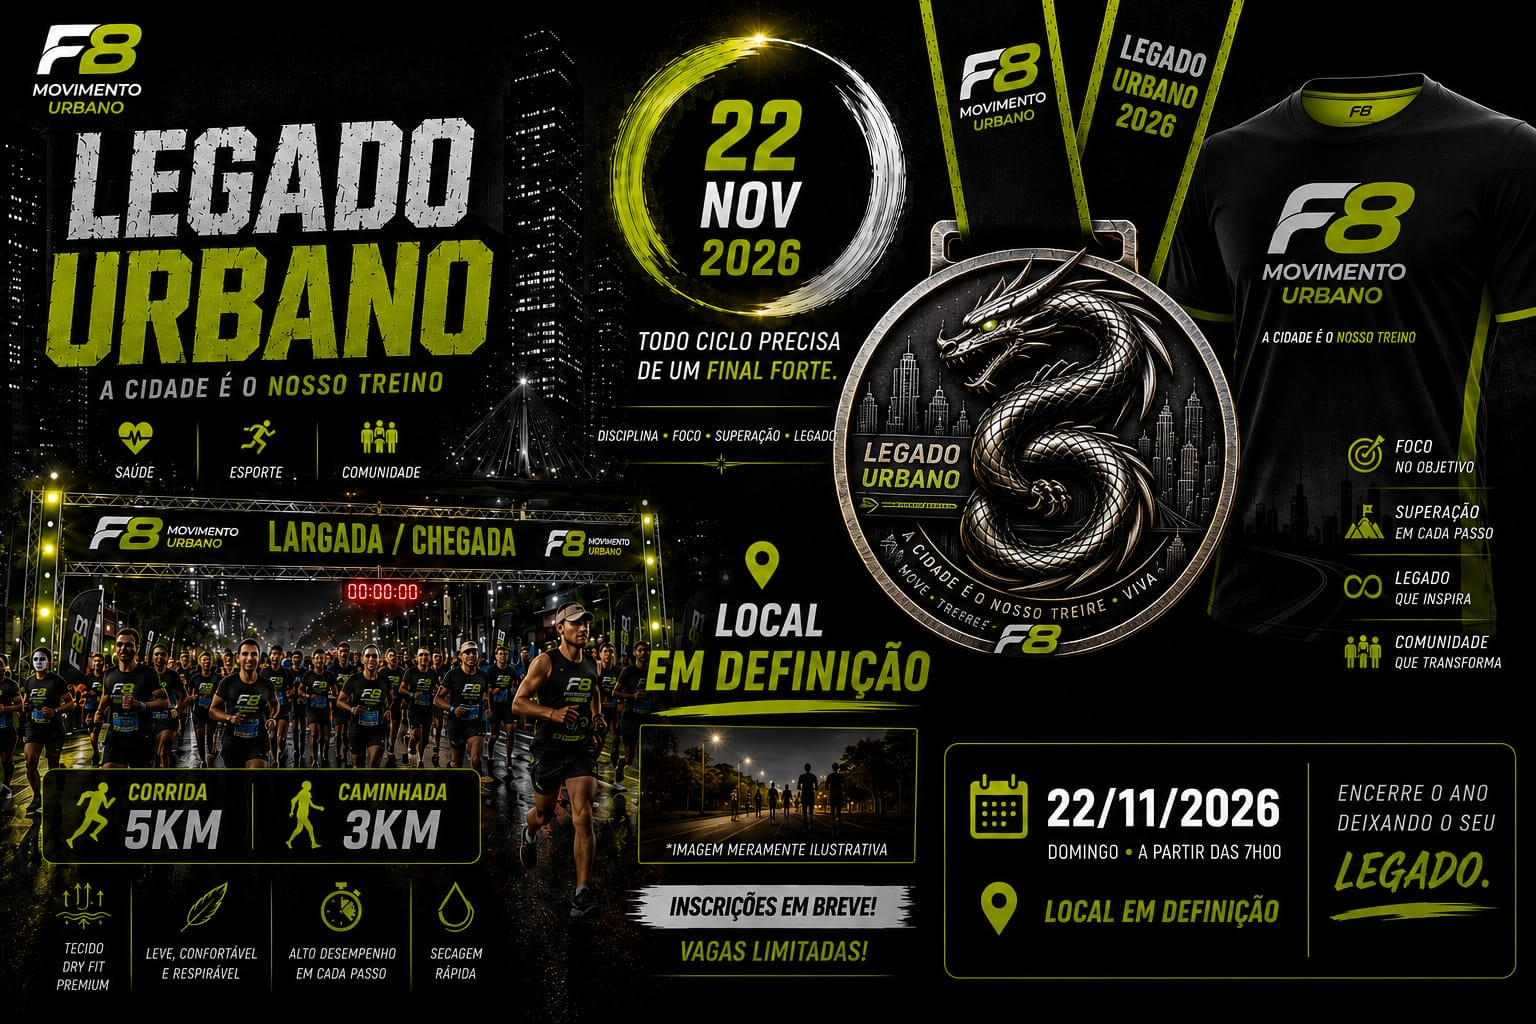
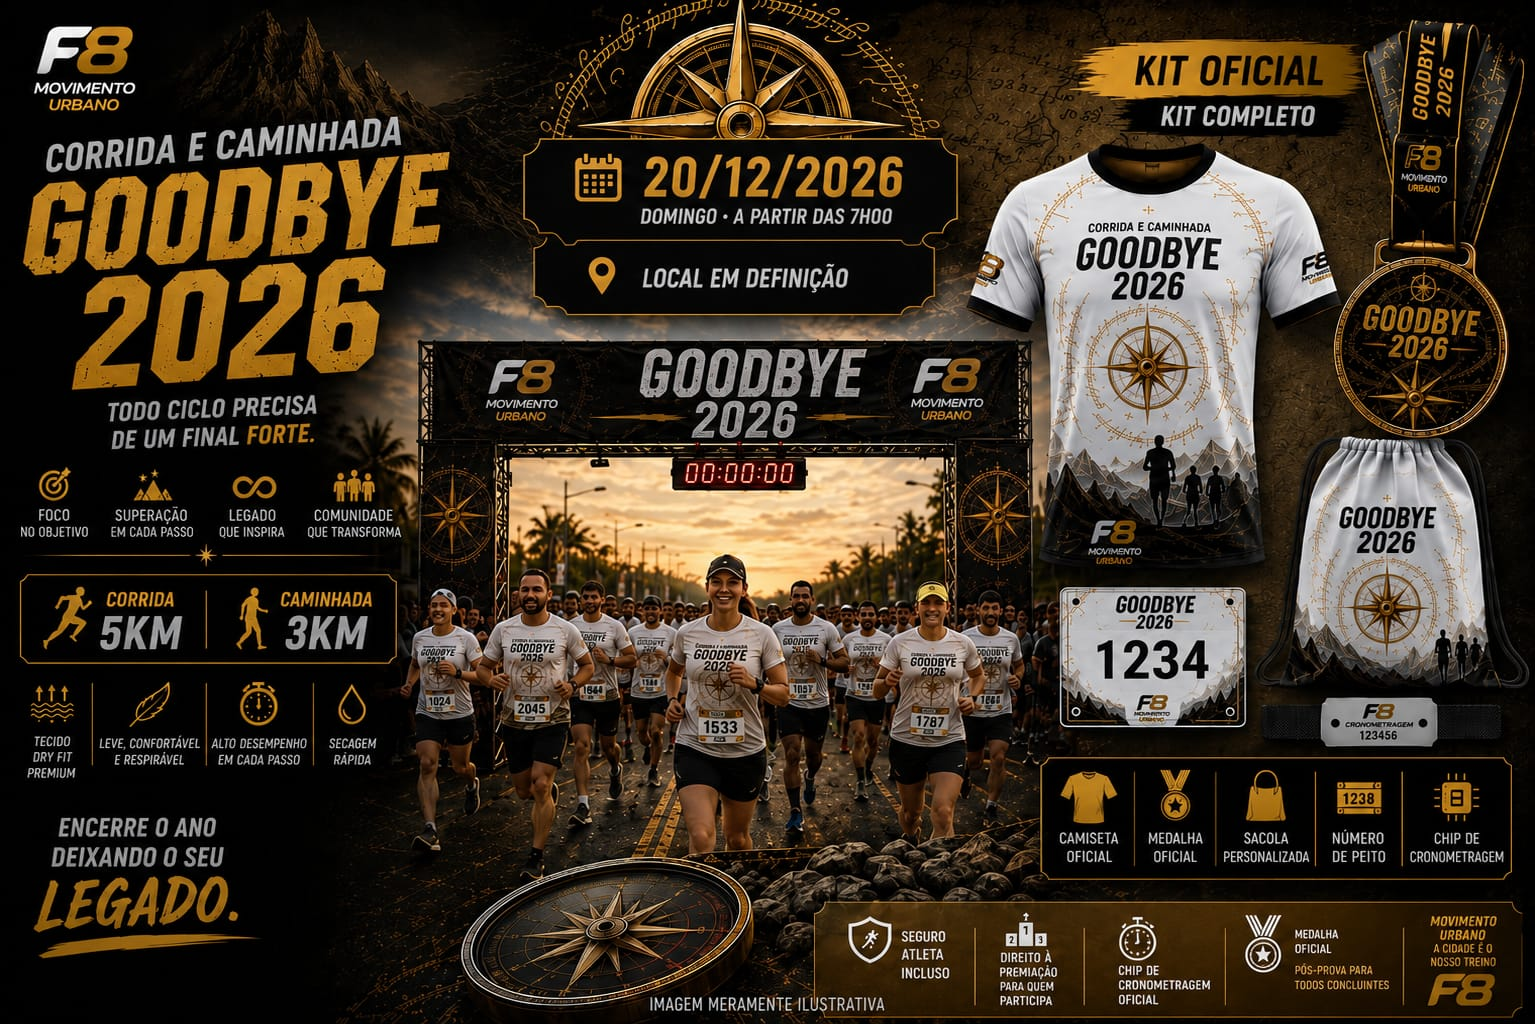
Move eventos de novembro e dezembro para as primeiras posições do carrossel

diff --git a/index.html b/index.html
@@ -280,70 +280,6 @@
                     <!-- Card 1 -->
                     <div class="event-card">
                         <div class="event-card-image">
-                            <img src="assets/images/event-1.png" alt="Meia Maratona SP" loading="lazy">
-                            <span class="event-card-date">25 AGO</span>
-                        </div>
-                        <div class="event-card-body">
-                            <h3>Meia Maratona São Paulo</h3>
-                            <div class="event-card-location">
-                                <svg width="14" height="14" viewBox="0 0 24 24" fill="none" stroke="currentColor" stroke-width="2"><path d="M21 10c0 7-9 13-9 13s-9-6-9-13a9 9 0 0 1 18 0z"/><circle cx="12" cy="10" r="3"/></svg>
-                                São Paulo, SP
-                            </div>
-                            <a href="https://wa.me/5511983685985?text=Ol%C3%A1!%20Gostaria%20de%20saber%20mais%20sobre%20os%20eventos%20da%20F8." target="_blank" rel="noopener noreferrer" class="btn-primary btn-sm">Inscreva-se</a>
-                        </div>
-                    </div>
-
-                    <!-- Card 2 -->
-                    <div class="event-card">
-                        <div class="event-card-image">
-                            <img src="assets/images/event-2.png" alt="10K Night Run" loading="lazy">
-                            <span class="event-card-date">15 SET</span>
-                        </div>
-                        <div class="event-card-body">
-                            <h3>10K Night Run SP</h3>
-                            <div class="event-card-location">
-                                <svg width="14" height="14" viewBox="0 0 24 24" fill="none" stroke="currentColor" stroke-width="2"><path d="M21 10c0 7-9 13-9 13s-9-6-9-13a9 9 0 0 1 18 0z"/><circle cx="12" cy="10" r="3"/></svg>
-                                São Paulo, SP
-                            </div>
-                            <a href="#" class="btn-primary btn-sm">Inscreva-se</a>
-                        </div>
-                    </div>
-
-                    <!-- Card 3 -->
-                    <div class="event-card">
-                        <div class="event-card-image">
-                            <img src="assets/images/event-3.png" alt="Corrida Neon Run" loading="lazy">
-                            <span class="event-card-date">05 OUT</span>
-                        </div>
-                        <div class="event-card-body">
-                            <h3>Neon Run São Miguel</h3>
-                            <div class="event-card-location">
-                                <svg width="14" height="14" viewBox="0 0 24 24" fill="none" stroke="currentColor" stroke-width="2"><path d="M21 10c0 7-9 13-9 13s-9-6-9-13a9 9 0 0 1 18 0z"/><circle cx="12" cy="10" r="3"/></svg>
-                                São Miguel Paulista, SP
-                            </div>
-                            <a href="https://wa.me/5511983685985?text=Ol%C3%A1!%20Gostaria%20de%20saber%20mais%20sobre%20os%20eventos%20da%20F8." target="_blank" rel="noopener noreferrer" class="btn-primary btn-sm">Saber Mais</a>
-                        </div>
-                    </div>
-
-                    <!-- Card 4 -->
-                    <div class="event-card">
-                        <div class="event-card-image">
-                            <img src="assets/images/event-4.png" alt="Trail Urbano" loading="lazy">
-                            <span class="event-card-date">20 OUT</span>
-                        </div>
-                        <div class="event-card-body">
-                            <h3>Trail Urbano Zona Leste</h3>
-                            <div class="event-card-location">
-                                <svg width="14" height="14" viewBox="0 0 24 24" fill="none" stroke="currentColor" stroke-width="2"><path d="M21 10c0 7-9 13-9 13s-9-6-9-13a9 9 0 0 1 18 0z"/><circle cx="12" cy="10" r="3"/></svg>
-                                São Paulo, SP
-                            </div>
-                            <a href="#" class="btn-primary btn-sm">Inscreva-se</a>
-                        </div>
-                    </div>
-
-                    <!-- Card 5 (extra for carousel scroll) -->
-                    <div class="event-card">
-                        <div class="event-card-image">
                             <img src="assets/images/legado-novembro.jpeg" alt="Legado Urbano" loading="lazy">
                             <span class="event-card-date">22 NOV</span>
                         </div>
@@ -353,11 +289,15 @@
                                 <svg width="14" height="14" viewBox="0 0 24 24" fill="none" stroke="currentColor" stroke-width="2"><path d="M21 10c0 7-9 13-9 13s-9-6-9-13a9 9 0 0 1 18 0z"/><circle cx="12" cy="10" r="3"/></svg>
                                 São Paulo, SP
                             </div>
-                            <a href="https://wa.me/5511983685985?text=Ol%C3%A1!%20Gostaria%20de%20saber%20mais%20sobre%20o%20evento%20Legado%20Urbano." target="_blank" rel="noopener noreferrer" class="btn-primary btn-sm">Saber Mais</a>
+                            <div class="event-card-location" style="margin-top: 8px; color: var(--accent-orange);">
+                                <svg width="14" height="14" viewBox="0 0 24 24" fill="none" stroke="currentColor" stroke-width="2"><circle cx="12" cy="12" r="10"/><polyline points="12 6 12 12 16 14"/></svg>
+                                22/11/2026 - A partir das 07:00
+                            </div>
+                            <a href="https://wa.me/5511983685985?text=Ol%C3%A1!%20Gostaria%20de%20saber%20mais%20sobre%20o%20evento%20Legado%20Urbano." target="_blank" rel="noopener noreferrer" class="btn-primary btn-sm" style="margin-top: 15px;">Saber Mais</a>
                         </div>
                     </div>
 
-                    <!-- Card 6 -->
+                    <!-- Card 2 -->
                     <div class="event-card">
                         <div class="event-card-image">
                             <img src="assets/images/goodbye-dezembro.jpeg" alt="Corrida e Caminhada Goodbye 2026" loading="lazy">
@@ -369,7 +309,75 @@
                                 <svg width="14" height="14" viewBox="0 0 24 24" fill="none" stroke="currentColor" stroke-width="2"><path d="M21 10c0 7-9 13-9 13s-9-6-9-13a9 9 0 0 1 18 0z"/><circle cx="12" cy="10" r="3"/></svg>
                                 São Paulo, SP
                             </div>
-                            <a href="https://wa.me/5511983685985?text=Ol%C3%A1!%20Gostaria%20de%20saber%20mais%20sobre%20a%20Corrida%20Goodbye%202026." target="_blank" rel="noopener noreferrer" class="btn-primary btn-sm">Saber Mais</a>
+                            <div class="event-card-location" style="margin-top: 8px; color: var(--accent-orange);">
+                                <svg width="14" height="14" viewBox="0 0 24 24" fill="none" stroke="currentColor" stroke-width="2"><circle cx="12" cy="12" r="10"/><polyline points="12 6 12 12 16 14"/></svg>
+                                20/12/2026 - A partir das 07:00
+                            </div>
+                            <a href="https://wa.me/5511983685985?text=Ol%C3%A1!%20Gostaria%20de%20saber%20mais%20sobre%20a%20Corrida%20Goodbye%202026." target="_blank" rel="noopener noreferrer" class="btn-primary btn-sm" style="margin-top: 15px;">Saber Mais</a>
+                        </div>
+                    </div>
+
+                    <!-- Card 3 -->
+                    <div class="event-card">
+                        <div class="event-card-image">
+                            <img src="assets/images/event-1.png" alt="Meia Maratona SP" loading="lazy">
+                            <span class="event-card-date">25 AGO</span>
+                        </div>
+                        <div class="event-card-body">
+                            <h3>Meia Maratona São Paulo</h3>
+                            <div class="event-card-location">
+                                <svg width="14" height="14" viewBox="0 0 24 24" fill="none" stroke="currentColor" stroke-width="2"><path d="M21 10c0 7-9 13-9 13s-9-6-9-13a9 9 0 0 1 18 0z"/><circle cx="12" cy="10" r="3"/></svg>
+                                São Paulo, SP
+                            </div>
+                            <a href="https://wa.me/5511983685985?text=Ol%C3%A1!%20Gostaria%20de%20saber%20mais%20sobre%20os%20eventos%20da%20F8." target="_blank" rel="noopener noreferrer" class="btn-primary btn-sm" style="margin-top: 15px;">Inscreva-se</a>
+                        </div>
+                    </div>
+
+                    <!-- Card 4 -->
+                    <div class="event-card">
+                        <div class="event-card-image">
+                            <img src="assets/images/event-2.png" alt="10K Night Run" loading="lazy">
+                            <span class="event-card-date">15 SET</span>
+                        </div>
+                        <div class="event-card-body">
+                            <h3>10K Night Run SP</h3>
+                            <div class="event-card-location">
+                                <svg width="14" height="14" viewBox="0 0 24 24" fill="none" stroke="currentColor" stroke-width="2"><path d="M21 10c0 7-9 13-9 13s-9-6-9-13a9 9 0 0 1 18 0z"/><circle cx="12" cy="10" r="3"/></svg>
+                                São Paulo, SP
+                            </div>
+                            <a href="#" class="btn-primary btn-sm" style="margin-top: 15px;">Inscreva-se</a>
+                        </div>
+                    </div>
+
+                    <!-- Card 5 -->
+                    <div class="event-card">
+                        <div class="event-card-image">
+                            <img src="assets/images/event-3.png" alt="Corrida Neon Run" loading="lazy">
+                            <span class="event-card-date">05 OUT</span>
+                        </div>
+                        <div class="event-card-body">
+                            <h3>Neon Run São Miguel</h3>
+                            <div class="event-card-location">
+                                <svg width="14" height="14" viewBox="0 0 24 24" fill="none" stroke="currentColor" stroke-width="2"><path d="M21 10c0 7-9 13-9 13s-9-6-9-13a9 9 0 0 1 18 0z"/><circle cx="12" cy="10" r="3"/></svg>
+                                São Miguel Paulista, SP
+                            </div>
+                            <a href="https://wa.me/5511983685985?text=Ol%C3%A1!%20Gostaria%20de%20saber%20mais%20sobre%20os%20eventos%20da%20F8." target="_blank" rel="noopener noreferrer" class="btn-primary btn-sm" style="margin-top: 15px;">Saber Mais</a>
+                        </div>
+                    </div>
+
+                    <!-- Card 6 -->
+                    <div class="event-card">
+                        <div class="event-card-image">
+                            <img src="assets/images/event-4.png" alt="Trail Urbano" loading="lazy">
+                            <span class="event-card-date">20 OUT</span>
+                        </div>
+                        <div class="event-card-body">
+                            <h3>Trail Urbano Zona Leste</h3>
+                            <div class="event-card-location">
+                                <svg width="14" height="14" viewBox="0 0 24 24" fill="none" stroke="currentColor" stroke-width="2"><path d="M21 10c0 7-9 13-9 13s-9-6-9-13a9 9 0 0 1 18 0z"/><circle cx="12" cy="10" r="3"/></svg>
+                                São Paulo, SP
+                            </div>
+                            <a href="#" class="btn-primary btn-sm" style="margin-top: 15px;">Inscreva-se</a>
                         </div>
                     </div>
                 </div>